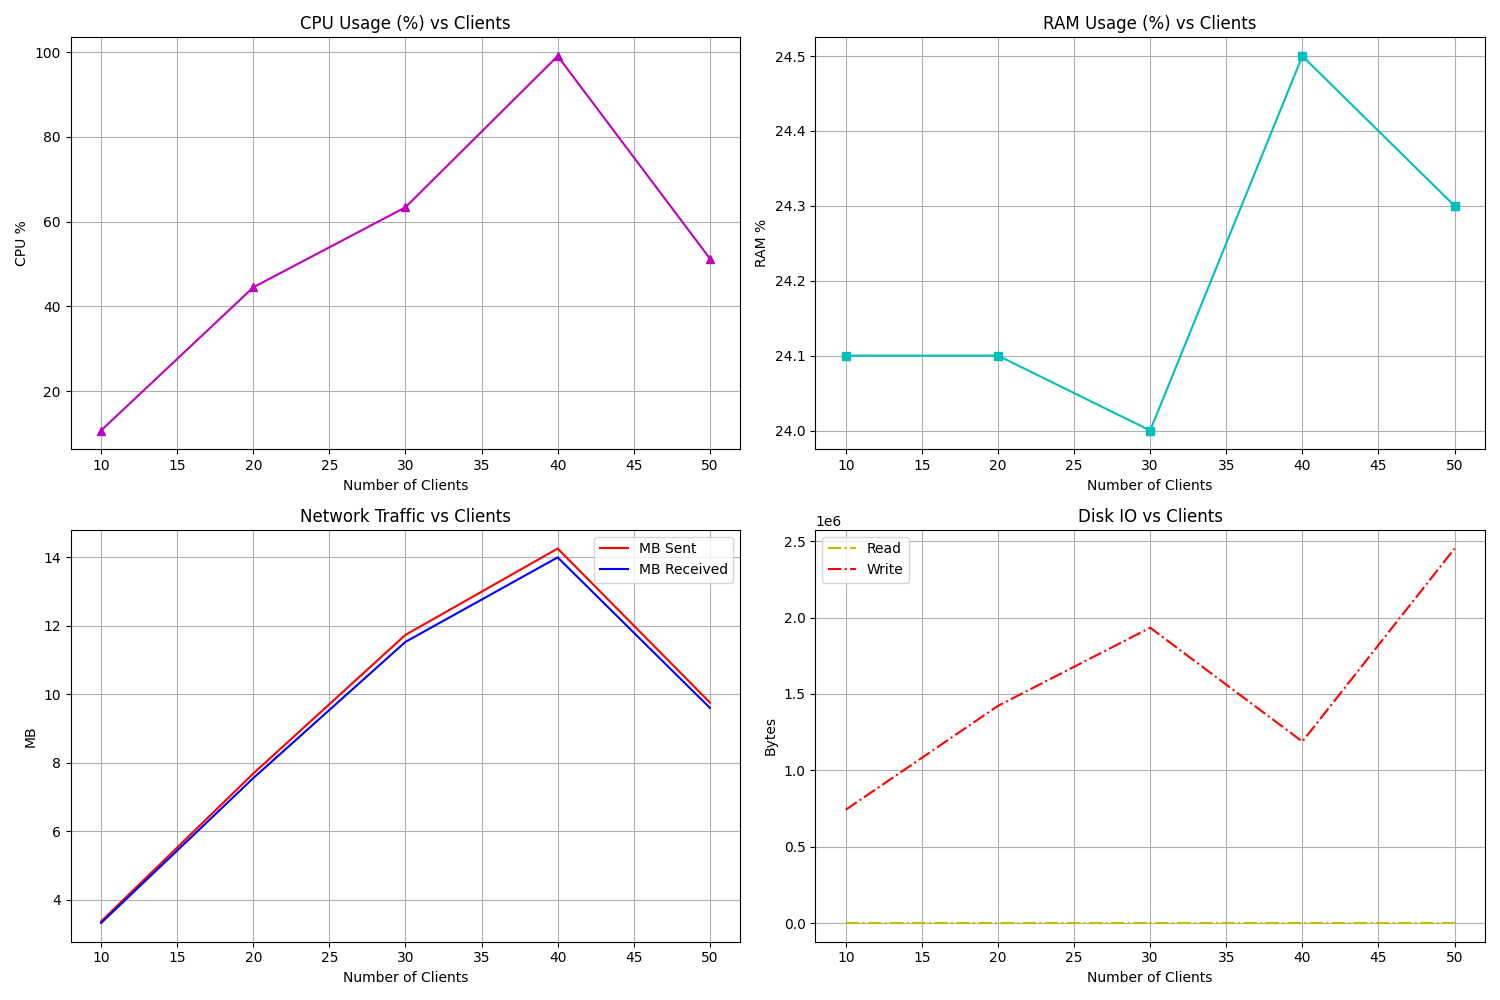
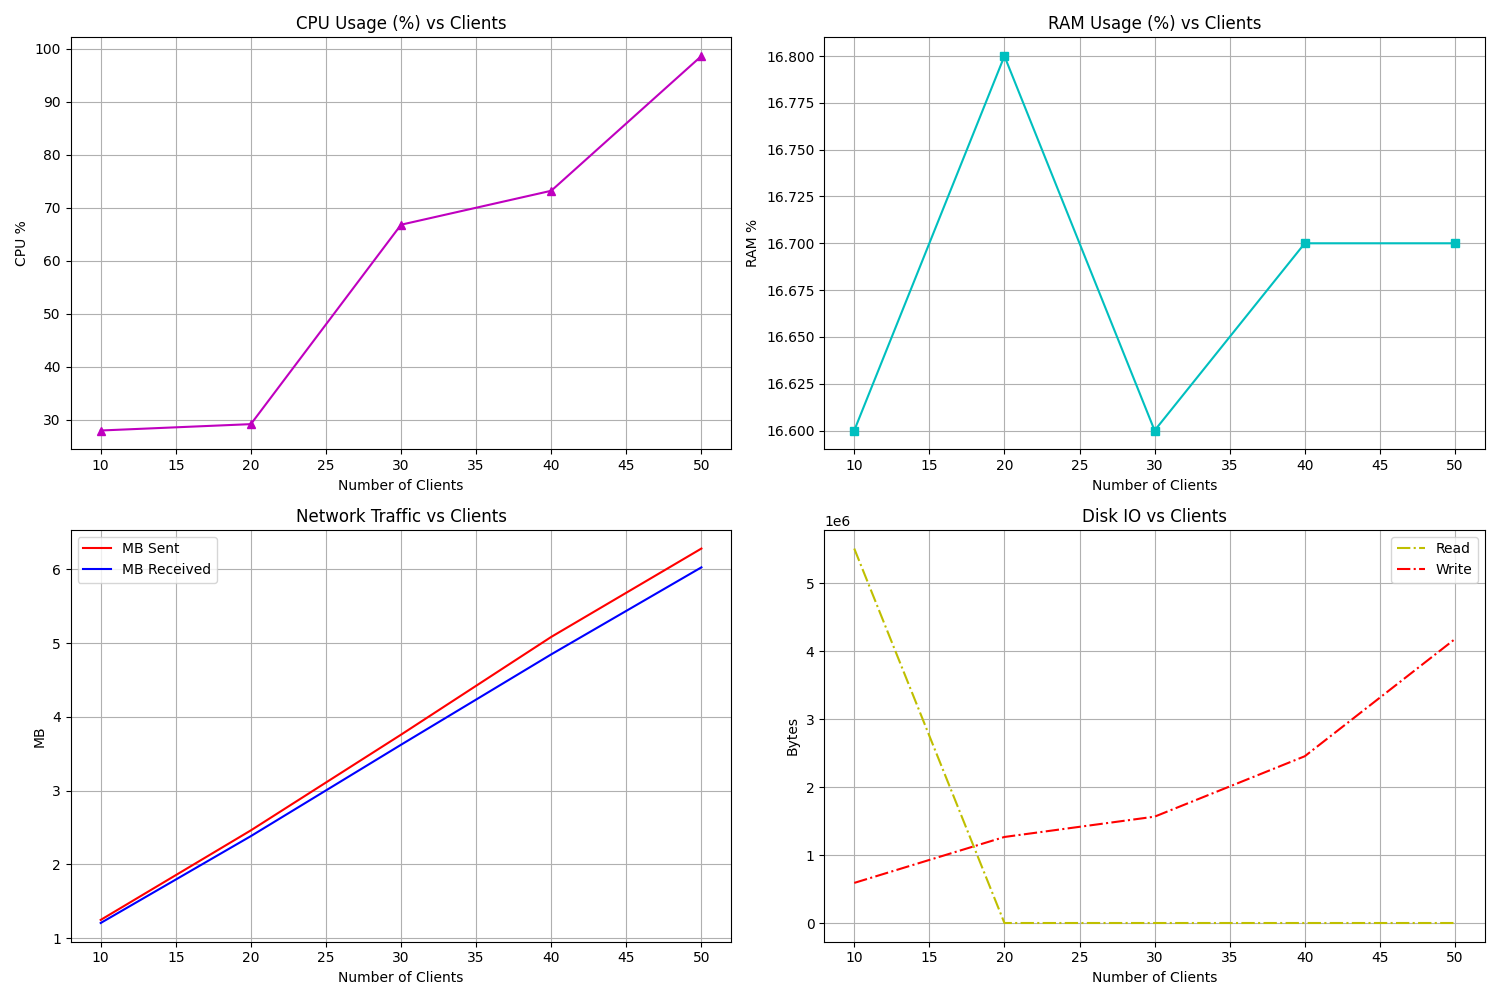
dynamic multinode fixed

diff --git a/tests/stress_tests/dynamic_multinode_tester.py b/tests/stress_tests/dynamic_multinode_tester.py
@@ -62,7 +62,7 @@ class DynamicMultinodeTester:
                 with Pool(processes=clients) as pool:
                     pool.map(process_task, tasks)
                 total_time = time.perf_counter() - start_time
-
+                active_servers = self.servers_manager.get_statistics()
                 latencies = list(self.latencies)
                 if latencies and total_time > 0:
                     avg_latency = sum(latencies) / len(latencies)
@@ -78,6 +78,7 @@ class DynamicMultinodeTester:
                     "avg_latency": avg_latency,
                     "throughput": throughput,
                     "total_time": total_time,
+                    "active_servers": active_servers
                 })
 
                 with self.lock:
@@ -101,26 +102,33 @@ class DynamicMultinodeTester:
         latencies = [s["avg_latency"] for s in self.test_stats]
         throughputs = [s["throughput"] for s in self.test_stats]
         total_times = [s["total_time"] for s in self.test_stats]
+        active_servers = [s["active_servers"] for s in self.test_stats]
 
         x = range(len(self.test_stats))
         plt.figure(figsize=(20, 6))
 
-        plt.subplot(1, 3, 1)
+        plt.subplot(2, 2, 1)
         plt.plot(x, latencies, color='skyblue', marker='o')
         plt.xticks(x, labels, rotation=45, ha="right")
         plt.title("Avg Latency (s)")
         plt.grid(True)
 
-        plt.subplot(1, 3, 2)
+        plt.subplot(2, 2, 2)
         plt.plot(x, throughputs, color='lightgreen', marker='o')
         plt.xticks(x, labels, rotation=45, ha="right")
         plt.title("Throughput (req/s)")
         plt.grid(True)
 
-        plt.subplot(1, 3, 3)
+        plt.subplot(2, 2, 3)
         plt.plot(x, total_times, color='salmon', marker='o')
         plt.xticks(x, labels, rotation=45, ha="right")
         plt.title("Total Time (s)")
+        plt.grid(True)
+
+        plt.subplot(2, 2, 4)
+        plt.plot(x, active_servers, color='mediumpurple', marker='o')
+        plt.xticks(x, labels, rotation=45, ha="right")
+        plt.title("Active Servers")
         plt.grid(True)
 
         plt.tight_layout()
@@ -133,5 +141,5 @@ if __name__ == "__main__":
     node_manager = DockerContainerManager()
     node_manager.run_rabbitmq()
     test = DynamicMultinodeTester()
-    test.run_stress_test([(10, 200), (100, 1000), (500, 10000), (100, 1000)])
+    test.run_stress_test([(10, 200), (10, 200), (100, 500),(100, 1000), (500, 10000), (500, 15000), (500, 5000), (100, 1000), (10, 200)])
     node_manager.stop_container('rabbitmq')

diff --git a/tests/stress_tests/dynamic_scaler/servers_manager.py b/tests/stress_tests/dynamic_scaler/servers_manager.py
@@ -1,3 +1,4 @@
+import math
 import multiprocessing
 from multiprocessing import Process
 
@@ -9,12 +10,14 @@ class ServersManager:
         self.server_pids = self.manager.list()
         self.server_target = server_target
         self.lock = self.manager.Lock()
+        self.active_servers = self.manager.list()
 
     def push(self):
         process = Process(target=self.server_target, daemon=False)
         process.start()
         with self.lock:
             self.server_pids.append(process.pid)
+            self.active_servers.append(len(self.server_pids))
 
     def pop(self):
         with self.lock:
@@ -23,6 +26,7 @@ class ServersManager:
                 try:
                     proc = psutil.Process(pid)
                     proc.terminate()
+                    self.active_servers.append(len(self.server_pids))
                 except Exception:
                     pass  # El proceso ya no existe
 
@@ -39,3 +43,9 @@ class ServersManager:
     def count(self):
         with self.lock:
             return len(self.server_pids)
+
+    def get_statistics(self):
+        with self.lock:
+            avg = math.ceil(sum(self.active_servers) / len(self.active_servers)) if self.active_servers else 0
+            self.active_servers[:] = self.active_servers[-1:]
+            return avg

diff --git a/tests/stress_tests/test_utils/functions.py b/tests/stress_tests/test_utils/functions.py
@@ -10,14 +10,8 @@ def get_free_port():
 
 def service_work(client, requests_per_client):
     for i in range(requests_per_client):
-        if i % 2 == 0:
-            client.add_insult(f"insult{i}")
-        else:
-            client.get_all_insults()
+        client.add_insult(f"insult{i}")
 
 def filter_work(client, requests_per_client):
     for i in range(requests_per_client):
-        if i % 2 == 0:
-            client.submit_text("insult idiot retardet")
-        else:
-            client.get_results()
+        client.submit_text("insult idiot retardet")
